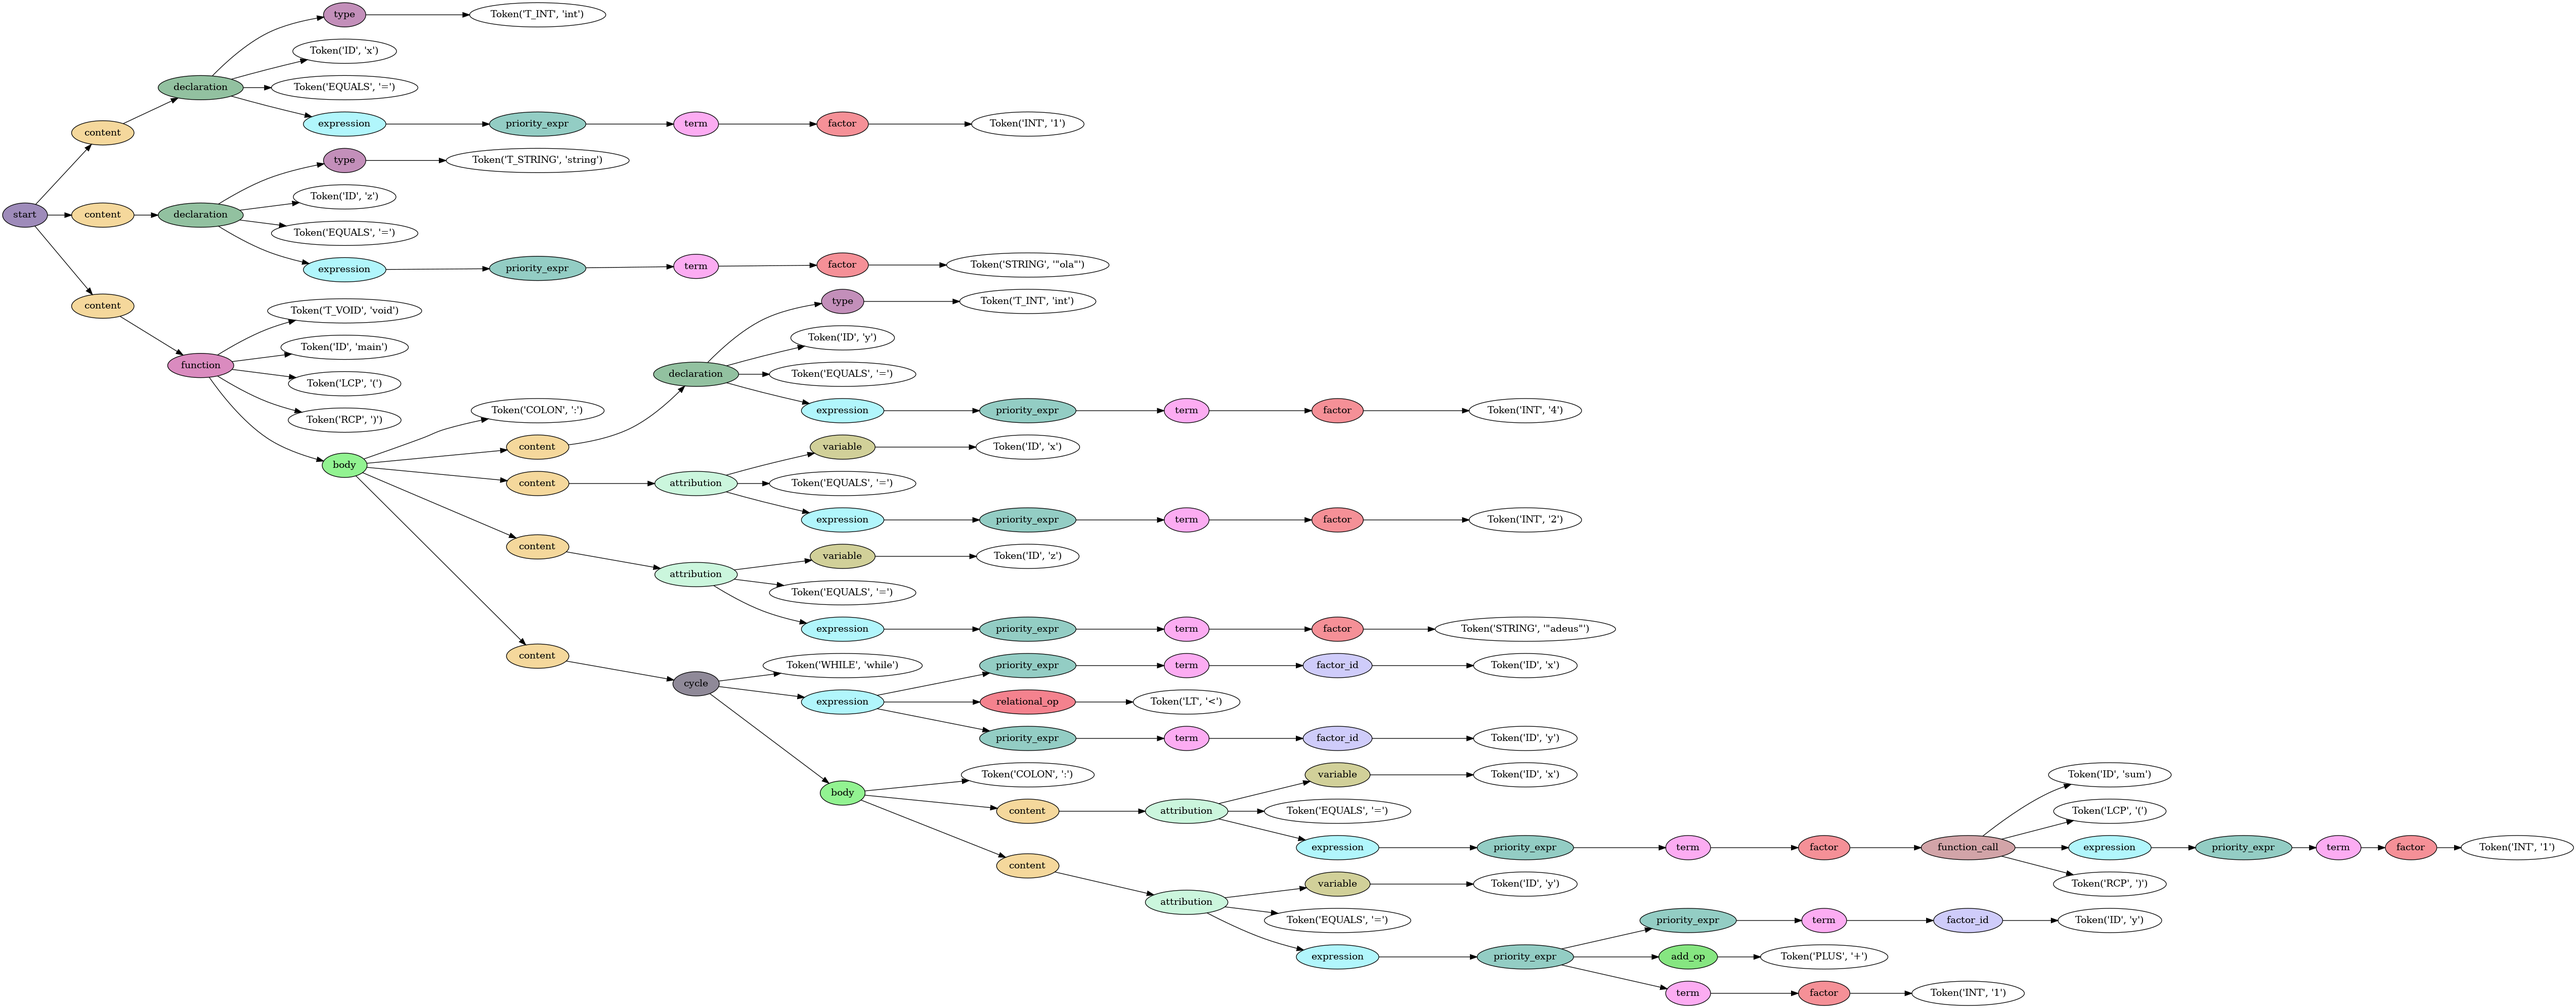
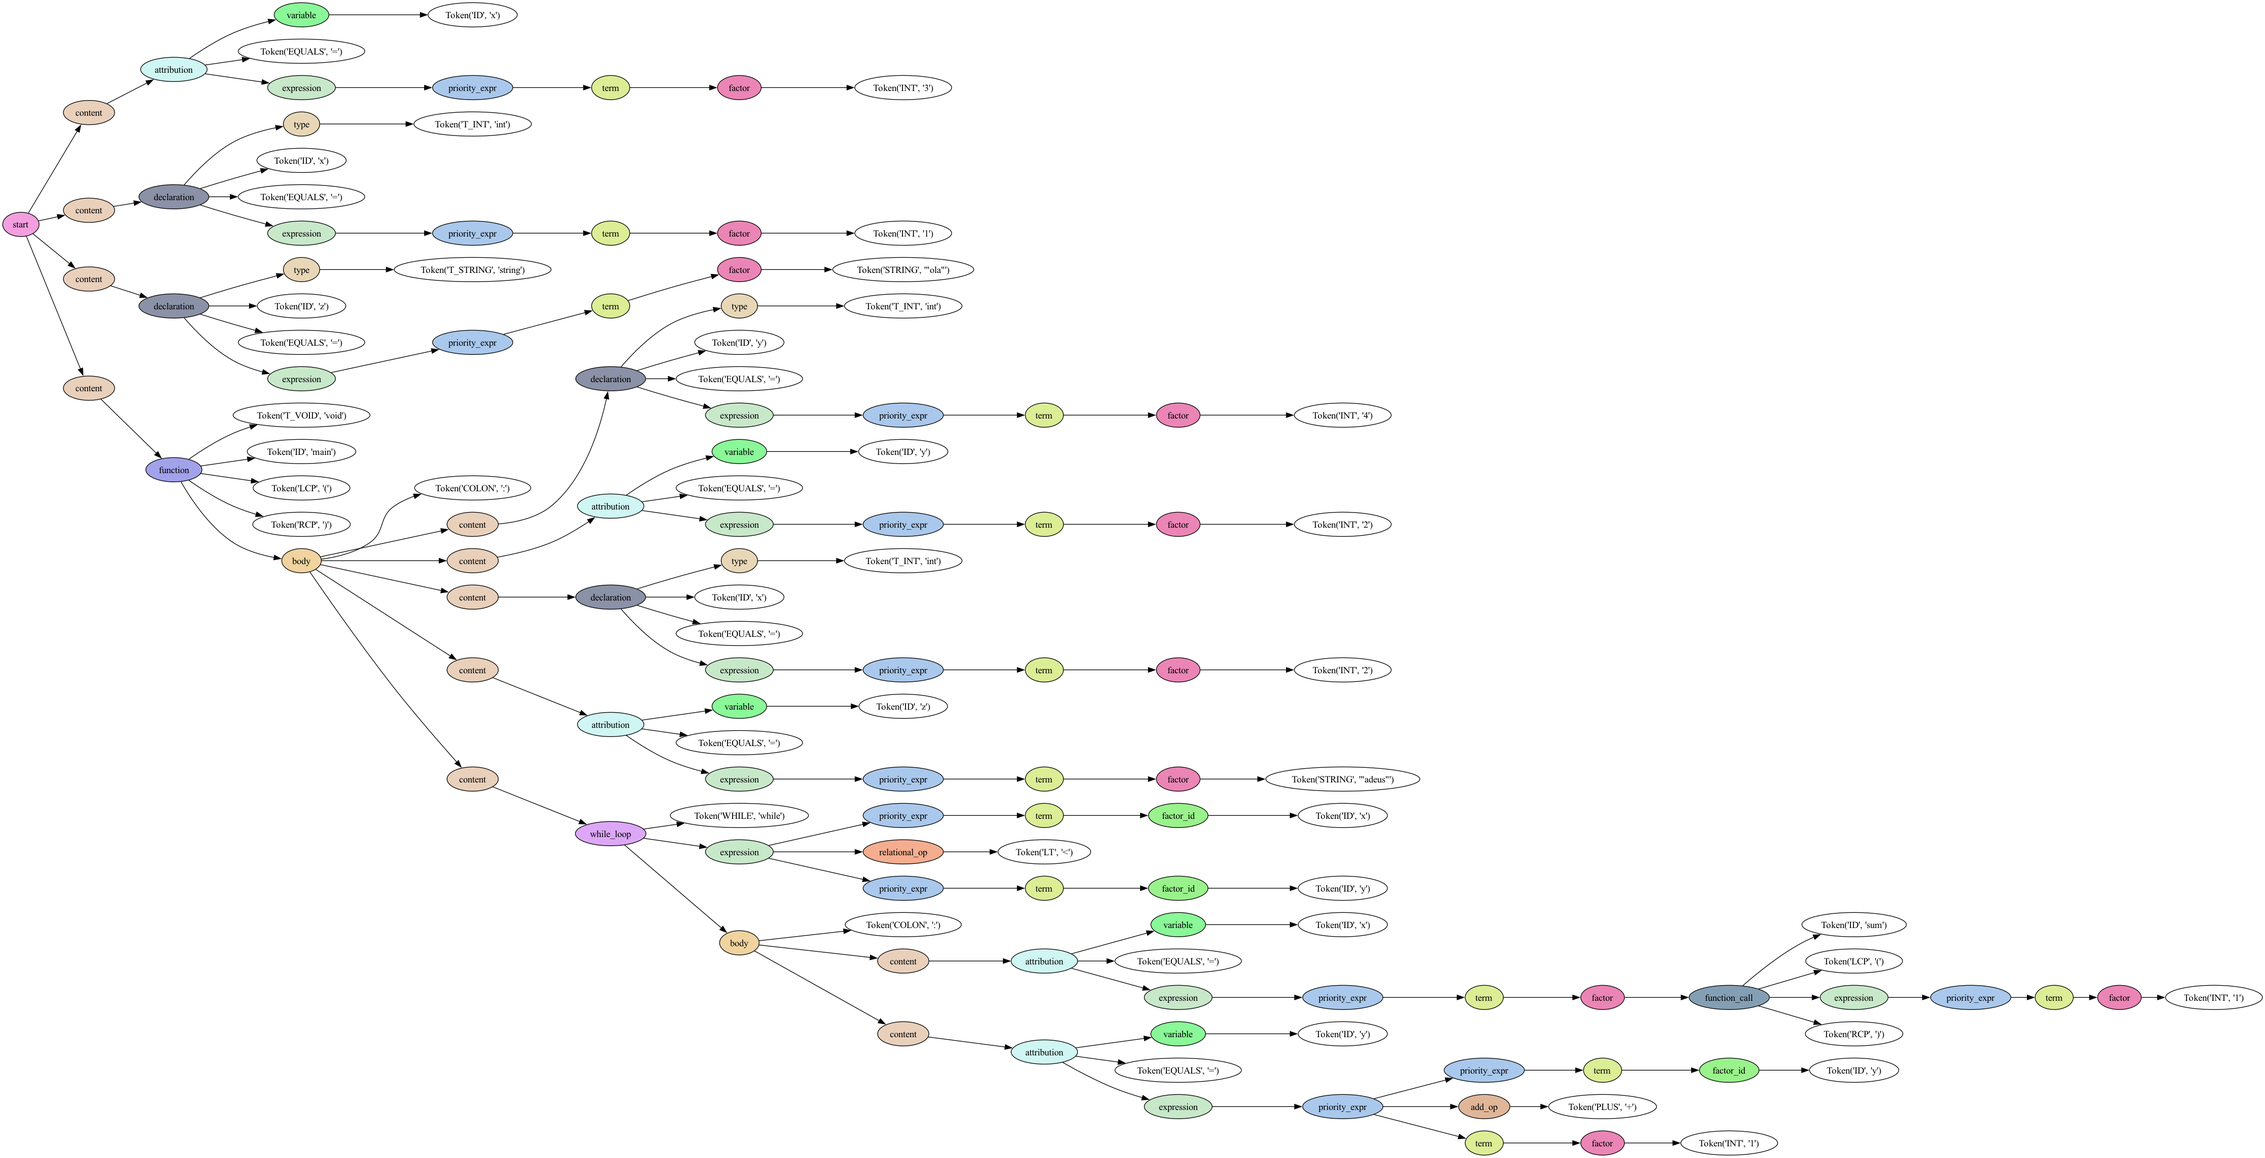
Organização das coisas para retornar e ciclos

diff --git a/interpreter.py b/interpreter.py
@@ -79,8 +79,8 @@ grammar = r'''
     read: READ LCP RCP
 
     cycle: DO body WHILE expression _NL+
-         | WHILE expression body
-         | FOR ID IN iterable body
+         | WHILE expression body -> while_loop
+         | FOR ID IN iterable body -> for_loop
 
     iterable: RANGE LCP INT (COMMA INT)? RCP
             | variable
@@ -194,15 +194,25 @@ class DicInterpreter(Interpreter):
     def __init__(self):
         self.dic = {}
         self.scope = ""
-        self.instructions = Counter()
-
-
+    
+    # vars= [(ID,scope,type),...] 
+    # erros = [lista de erros]
+    # tipos[Tipo de dados] = [(id,scope),..]
+    # instrucao = {total: int, atribuicoes: int, leitura: int, escrita, int, condicionais: int, cíclicas : int}
+    # mausif : in
+    # listaif = [strings,..] 
     def start(self,tree):
+        self.info = {"vars": [], "erros": [], "tipos": {}, "instrucao": Counter(), "mausif": [], "listaif": []}
         self.visit_children(tree)
-        for (name, scope), (_, attr) in self.dic.items():
+        for (name, scope), (type, attr) in self.dic.items():
+            if scope=="":
+                scope = "global"
+            self.info["vars"].append((name, scope, type))
+            self.info["tipos"].setdefault(type, []).append((name, scope))
             if not attr:
-                print(f"[{scope}] [WARNING] Variable {name} declared but never used.") 
-        return self.dic
+                self.info["erros"].append(f"[{scope}] [WARNING] Variable {name} declared but never used.") 
+        self.info["vars"].sort(key=lambda x: (x[1],x[0]))
+        return self.info
     
     def content(self,tree):
         self.visit_children(tree)
@@ -222,10 +232,10 @@ class DicInterpreter(Interpreter):
             scope = self.scope
             if self.scope == "":
                 scope = "global"
-            print(f"[ERROR] Variable {name} already declared in scope {scope}")
+            self.info["erros"].append(f"[ERROR] Variable {name} already declared in scope {scope}")
 
         if len(tree.children)>2:
-            self.instructions["attribution"] += 1
+            self.info["instrucao"]["attribution"] += 1
             #verificar se o tipo da expressão coincide com o tipo da variável
             if self.dic[key][0] == 'int':
                 self.dic[key][1].append(int(self.visit(tree.children[3]).value))
@@ -236,7 +246,7 @@ class DicInterpreter(Interpreter):
         name = self.visit(tree.children[0])
         key = (name,self.scope)
         
-        self.instructions["attribution"] += 1
+        self.info["instrucao"]["attribution"] += 1
         if key in self.dic:
             #verificar tipo da expressão depois
             if self.dic[key][0] == 'int':
@@ -253,7 +263,7 @@ class DicInterpreter(Interpreter):
                 elif self.dic[key][0] == 'string':
                     self.dic[key][1].append(self.visit(tree.children[2]).value.strip('"'))
             else:
-                print(f"[ERROR] Variable {name} not declared")
+                self.info["erros"].append(f"[ERROR] Variable {name} not declared")
     
     def body(self,tree):
         self.visit_children(tree)
@@ -282,11 +292,11 @@ class DicInterpreter(Interpreter):
         id = self.visit_children(tree)[0].value
         # int b = a + 1 (variável não declarada)
         if (id, self.scope) not in self.dic:
-            print(f"[ERROR] Variable {id} not declared.")
+            self.info["erros"].append(f"[ERROR] Variable {id} not declared.")
         # int a (declarada, mas não inicializada)
         # int b = a + 1
         elif not self.dic[(id,self.scope)][1]:
-            print(f"[WARNING] Variable {id} not initialized.")
+            self.info["erros"].append(f"[WARNING] Variable {id} not initialized.")
 
         
     def relational_op(self,tree):
@@ -387,13 +397,32 @@ class DicInterpreter(Interpreter):
                         self.visit(tree.children[i+1])
 
     def write(self,tree):
-        pass
+        self.info["instrucao"]["escrita"] += 1
+        #isto seria se fosse para correr, não sei se é suposto
+        #print(self.visit(tree.children[2]))
 
     def read(self,tree):
-        pass
+        self.info["instrucao"]["leitura"] += 1
+
 
     def cycle(self,tree):
-        pass
+        self.info["instrucao"]["cíclicas"] += 1
+        self.visit(tree.children[1])
+    
+    def while_loop(self,tree):
+        self.info["instrucao"]["cíclicas"] += 1
+        self.visit(tree.children[2])
+        
+    def for_loop(self,tree):
+        var_name = tree.children[1].value
+        if (var_name,self.scope) in self.dic:
+            self.info["erros"].append(f"[ERROR] Variable {var_name} already declared in scope {self.scope}")
+        # ver o tipo do iteravel
+        self.dict[(var_name,self.scope)] = ("?",[])
+        self.info["instrucao"]["cíclicas"] += 1
+        self.visit(tree.children[4])
+        
+        
 
     def iterable(self,tree):
         pass
@@ -439,6 +468,7 @@ for n in nums:
 '''
 
 frase1='''
+x=3
 int x=1
 string z = "ola"
 void main():
